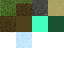
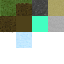
added snow

Changed region(s): [[0.75, 0.25, 1.0, 0.5]]

diff --git a/src/voxelGame/Block.java b/src/voxelGame/Block.java
@@ -8,6 +8,7 @@ public class Block {
 	public static final int ROCK = 3;
 	public static final int WATER = 4;
 	public static final int SAND = 5;
+	public static final int SNOW = 6;
 	
 	public static int[] getBlockSprite(int blockId) {
 		if(blockId == GRASS) {
@@ -58,6 +59,16 @@ public class Block {
 					3, 0,
 					3, 0,
 					3, 0,
+					};
+		}
+		else if(blockId == SNOW) {
+			return new int[] {
+					3, 1,
+					3, 1,
+					3, 1,
+					3, 1,
+					3, 1,
+					3, 1,
 					};
 		}
 		

diff --git a/src/voxelGame/Biome.java b/src/voxelGame/Biome.java
@@ -54,6 +54,9 @@ public class Biome {
 		if(y <= WATERLEVEL + 1) {
 			cells[x][y][z] = Block.SAND;
 		}
+		else if(y > 45) {
+			cells[x][y][z] = Block.SNOW;
+		}
 		
 		
 		
